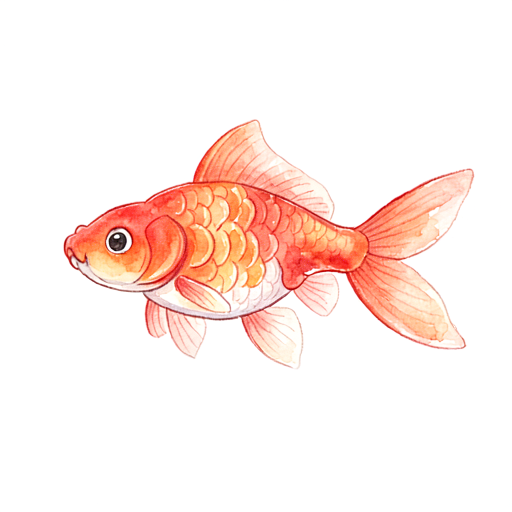
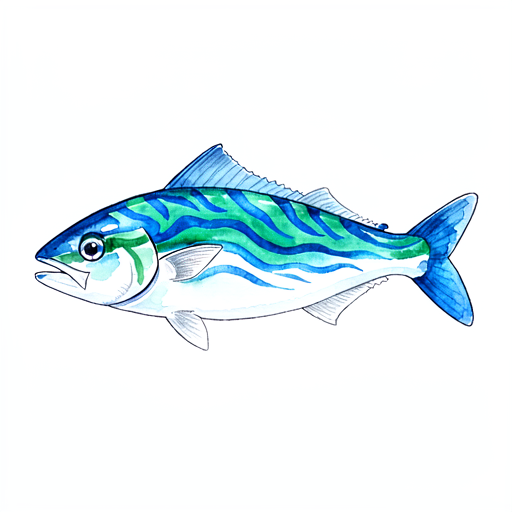
魚修正

Changed region(s): [[0.0625, 0.2188, 0.9375, 0.7188]]

diff --git a/kotoba_zukan/index.html b/kotoba_zukan/index.html
@@ -2281,9 +2281,13 @@
     }
 
     // 表示カテゴリまたは選択肢の音声を事前ロード（初期表示の高速化＆帯域保護）
-    function preloadCategoryAudio(cat) {
-      const words = ((cat === 'all' || !cat) ? ALL_WORDS : ALL_WORDS.filter(w => w.category === cat)).filter(w => !hiddenWordsSet.has(w.id));
-      words.slice(0, 36).forEach(w => {
+    function preloadCategoryAudio(cat, subCat = 'all') {
+      let words = ((cat === 'all' || !cat) ? ALL_WORDS : ALL_WORDS.filter(w => w.category === cat)).filter(w => !hiddenWordsSet.has(w.id));
+      if (subCat && subCat !== 'all') {
+        const subWords = words.filter(w => w.subCategory === subCat);
+        if (subWords.length > 0) words = subWords;
+      }
+      words.slice(0, 64).forEach(w => {
         loadAudioBuffer(`audio/words/${w.id}.mp3`);
       });
     }
@@ -2323,6 +2327,9 @@
         return;
       }
 
+      // ユーザー操作の同期スタック内で直ちにAudioContextをアンロック・復帰
+      const ctx = getAudioContext();
+
       let audioUrl = '';
       let fallbackText = '';
 
@@ -2345,39 +2352,34 @@
 
       const now = Date.now();
 
-      // 連打対策1: 同一単語の連続再生抑制（650ms以内）
-      if (!force && identifier === lastSpokenTarget && (isCurrentlySpeaking || (now - lastSpeakTime < 650))) {
+      // forceでない場合のみ極端な同ミリ秒連打（150ms未満）を抑制
+      if (!force && identifier === lastSpokenTarget && (now - lastSpeakTime < 150)) {
         return;
       }
 
-      // 連打対策2: 別単語連打時のデバウンス制御
       if (speakDebounceTimer) {
         clearTimeout(speakDebounceTimer);
         speakDebounceTimer = null;
       }
 
-      const elapsed = now - lastSpeakTime;
-      const delay = (!force && elapsed < 220) ? 90 : 0;
+      // 既存音声を即座に停止してクリーンなセッションを開始
+      stopAllVoicePlayback();
+      const session = activeAudioSession;
 
-      speakDebounceTimer = setTimeout(async () => {
-        speakDebounceTimer = null;
-        stopAllVoicePlayback();
-        const session = activeAudioSession;
+      lastSpeakTime = Date.now();
+      lastSpokenTarget = identifier;
+      isCurrentlySpeaking = true;
 
-        lastSpeakTime = Date.now();
-        lastSpokenTarget = identifier;
-        isCurrentlySpeaking = true;
+      const triggerEnd = () => {
+        if (session === activeAudioSession) {
+          isCurrentlySpeaking = false;
+          if (onEnd) onEnd();
+        }
+      };
 
-        const triggerEnd = () => {
-          if (session === activeAudioSession) {
-            isCurrentlySpeaking = false;
-            if (onEnd) onEnd();
-          }
-        };
-
-        // 1. Web Audio API による高速低遅延再生
-        if (audioUrl) {
-          const ctx = getAudioContext();
+      // 1. Web Audio API による即時低遅延再生（最優先）
+      if (audioUrl) {
+        try {
           const buffer = await loadAudioBuffer(audioUrl);
           if (session !== activeAudioSession) return;
 
@@ -2396,43 +2398,61 @@
               src.start(0);
               return;
             } catch (e) {
-              console.warn('WebAudio playback error, falling back:', e);
+              console.warn('WebAudio buffer playback error, trying fallback:', e);
             }
           }
+        } catch (e) {
+          console.warn('loadAudioBuffer error:', e);
+        }
 
-          // 2. HTML5 Audio によるフォールバック
+        // 2. HTML5 Audio によるフォールバック
+        if (session === activeAudioSession) {
           try {
-            await new Promise((resolve, reject) => {
-              const audio = new Audio(audioUrl);
-              activeHtmlAudios.push(audio);
-              const cleanup = () => {
-                activeHtmlAudios = activeHtmlAudios.filter(a => a !== audio);
-              };
-              audio.onended = () => { cleanup(); resolve(); };
-              audio.onerror = (err) => { cleanup(); reject(err); };
-              const rate = settings.speechSpeed === 'slow' ? 0.85 : 1.0;
-              audio.playbackRate = rate;
-              const p = audio.play();
-              if (p && typeof p.catch === 'function') p.catch(err => { cleanup(); reject(err); });
-            });
-            triggerEnd();
+            const audio = new Audio(audioUrl);
+            activeHtmlAudios.push(audio);
+            const cleanup = () => {
+              activeHtmlAudios = activeHtmlAudios.filter(a => a !== audio);
+            };
+            audio.onended = () => { cleanup(); triggerEnd(); };
+            audio.onerror = () => {
+              cleanup();
+              // HTML5 Audio failure, fallback to Web Speech
+              if (session === activeAudioSession && fallbackText) {
+                speakTextFallback(fallbackText, () => {}, triggerEnd);
+              } else {
+                triggerEnd();
+              }
+            };
+            const rate = settings.speechSpeed === 'slow' ? 0.85 : 1.0;
+            audio.playbackRate = rate;
+            const p = audio.play();
+            if (p && typeof p.catch === 'function') {
+              p.catch(() => {
+                cleanup();
+                if (session === activeAudioSession && fallbackText) {
+                  speakTextFallback(fallbackText, () => {}, triggerEnd);
+                } else {
+                  triggerEnd();
+                }
+              });
+            }
             return;
           } catch (e) {
-            // HTML5 Audio failure, fallback to Web Speech
+            // HTML5 Audio failed
           }
         }
+      }
 
-        // 3. Web Speech API フォールバック
-        if (fallbackText) {
-          speakTextFallback(fallbackText, () => {}, triggerEnd);
-        } else {
-          triggerEnd();
-        }
-      }, delay);
+      // 3. Web Speech API フォールバック
+      if (fallbackText && session === activeAudioSession) {
+        speakTextFallback(fallbackText, () => {}, triggerEnd);
+      } else {
+        triggerEnd();
+      }
     }
 
     // 互換性のための speakText エイリアス
-    function speakText(text, onEnd, force = false) {
+    function speakText(text, onEnd, force = true) {
       playWordAudio(text, onEnd, force);
     }
 
@@ -2651,7 +2671,7 @@
 
     function renderZukanCards() {
       renderZukanTabs();
-      preloadCategoryAudio(currentCategoryFilter);
+      preloadCategoryAudio(currentCategoryFilter, currentSubCategoryFilter);
       const grid = document.getElementById('zukan-grid');
       grid.innerHTML = '';
 
@@ -2703,36 +2723,39 @@
 
         let startX = 0;
         let startY = 0;
-        let hasMoved = false;
+        let isDrag = false;
 
         card.addEventListener('pointerdown', (e) => {
           startX = e.clientX;
           startY = e.clientY;
-          hasMoved = false;
+          isDrag = false;
+          // タップ瞬間に同期でオーディオロック解除
+          getAudioContext();
         }, { passive: true });
 
         card.addEventListener('pointermove', (e) => {
-          if (!hasMoved) {
+          if (!isDrag) {
             const dx = Math.abs(e.clientX - startX);
             const dy = Math.abs(e.clientY - startY);
-            if (dx > 7 || dy > 7) {
-              hasMoved = true;
+            // 16px以上の移動をドラッグ/スワイプと判定（タップの微小な指ブレを許容）
+            if (dx > 16 || dy > 16) {
+              isDrag = true;
             }
           }
         }, { passive: true });
 
         card.addEventListener('click', (e) => {
-          // スクロール操作やスワイプ中（指が動いた場合）はクリックを発火させない
-          if (hasMoved || isZukanScrolling) {
-            e.preventDefault();
-            e.stopPropagation();
+          // 明確なドラッグ移動（16px超）があった場合はスワイプ優先でスキップ
+          if (isDrag) {
             return;
           }
 
           card.classList.remove('bounce');
           void card.offsetWidth; // reflow
           card.classList.add('bounce');
-          speakText(word.name);
+
+          // 単語IDを直接指定し、force=true で即座に発音
+          playWordAudio(word.id, null, true);
 
           if (settings.modalPreview) {
             modalCurrentWordIndex = index;
@@ -2752,8 +2775,15 @@
       tag.textContent = word.categoryName;
       tag.style.backgroundColor = catDef ? catDef.color : 'var(--primary)';
 
-      document.getElementById('modal-svg-box').innerHTML = getWordVisualHtml(word.id, word.name);
-      document.getElementById('modal-name').textContent = word.name;
+      const svgBox = document.getElementById('modal-svg-box');
+      svgBox.innerHTML = getWordVisualHtml(word.id, word.name);
+      svgBox.style.cursor = 'pointer';
+      svgBox.onclick = () => playWordAudio(word.id, null, true);
+
+      const nameEl = document.getElementById('modal-name');
+      nameEl.textContent = word.name;
+      nameEl.style.cursor = 'pointer';
+      nameEl.onclick = () => playWordAudio(word.id, null, true);
 
       // 個別非表示ボタン
       const hideBtn = document.getElementById('modal-hide-btn');
@@ -2773,7 +2803,7 @@
     let zukanScrollTimer = null;
 
     function initZukanEvents() {
-      // スクロール検知（スワイプ中のカードクリック防止）
+      // スクロール検知
       const scrollEl = document.querySelector('.zukan-grid-scroll');
       if (scrollEl) {
         scrollEl.addEventListener('scroll', () => {
@@ -2781,7 +2811,7 @@
           if (zukanScrollTimer) clearTimeout(zukanScrollTimer);
           zukanScrollTimer = setTimeout(() => {
             isZukanScrolling = false;
-          }, 120);
+          }, 100);
         }, { passive: true });
       }
 
@@ -2815,7 +2845,7 @@
 
       document.getElementById('modal-speak-btn').addEventListener('click', () => {
         const word = currentFilteredWords[modalCurrentWordIndex];
-        if (word) speakText(word.name);
+        if (word) playWordAudio(word.id, null, true);
       });
 
       document.getElementById('modal-prev-btn').addEventListener('click', () => {
@@ -2827,7 +2857,7 @@
         modalCurrentWordIndex = (modalCurrentWordIndex - 1 + currentFilteredWords.length) % currentFilteredWords.length;
         const word = currentFilteredWords[modalCurrentWordIndex];
         openModalForWord(word);
-        speakText(word.name, null, true);
+        playWordAudio(word.id, null, true);
       });
 
       document.getElementById('modal-next-btn').addEventListener('click', () => {
@@ -2839,7 +2869,7 @@
         modalCurrentWordIndex = (modalCurrentWordIndex + 1) % currentFilteredWords.length;
         const word = currentFilteredWords[modalCurrentWordIndex];
         openModalForWord(word);
-        speakText(word.name, null, true);
+        playWordAudio(word.id, null, true);
       });
     }
 
@@ -2908,9 +2938,9 @@
           </div>
         `;
         document.getElementById('btn-quiz-speak').addEventListener('click', () => {
-          speakText(targetWord.name);
+          speakText(targetWord.id, null, true);
         });
-        speakText(targetWord.name, null, true);
+        speakText(targetWord.id, null, true);
 
         choices.forEach(c => {
           const card = document.createElement('div');
@@ -2932,7 +2962,7 @@
           </div>
         `;
         document.getElementById('btn-quiz-speak').addEventListener('click', () => {
-          speakText(targetWord.name);
+          speakText(targetWord.id, null, true);
         });
 
         choices.forEach(c => {
@@ -3015,7 +3045,7 @@
               card.style.transform = `translate3d(${targetDx}px, ${targetDy}px, 0)`;
 
               dropTarget.classList.add('is-correct');
-              speakText(targetWord.name);
+              speakText(targetWord.id, null, true);
 
               setTimeout(() => {
                 currentQuizIndex++;

diff --git a/common/vocab.js b/common/vocab.js
@@ -289,8 +289,8 @@
     "categoryName": "いきもの",
     "image": "images/d_sakana.png",
     "file": "d_sakana.png",
-    "prompt": "A realistic-leaning educational picture book illustration of a graceful swimming goldfish / orange fish (さかな). Style: Gentle warm Japanese picture book style with delicate watercolor and colored pencil textures, subtle clear contours (vibrant orange-red scales, translucent flowing fins). Completely isolated on a solid pure white background (#ffffff) with no clutter, suitable for children vocabulary flashcard. NOT a photograph, an illustration.",
-    "tts_text": "魚",
+    "prompt": "A realistic-leaning educational picture book illustration of a common swimming fish (さかな - Japanese standard fish, silvery-blue back, white belly, natural fins, NOT a goldfish). Style: Gentle warm Japanese picture book style with delicate watercolor and colored pencil textures, subtle clear contours. Completely isolated on a solid pure white background (#ffffff) with no clutter, suitable for children vocabulary flashcard. NOT a photograph, an illustration.",
+    "tts_text": "さかな",
     "subCategory": "sakana_umi",
     "subCategoryName": "うみ・みずのいきもの"
   },
